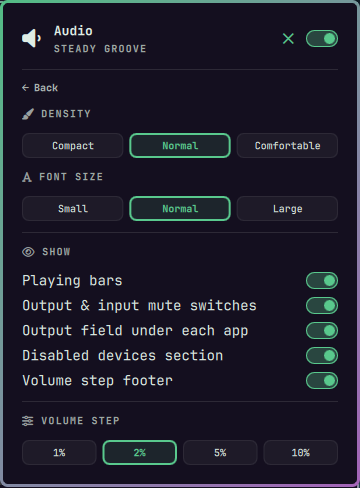
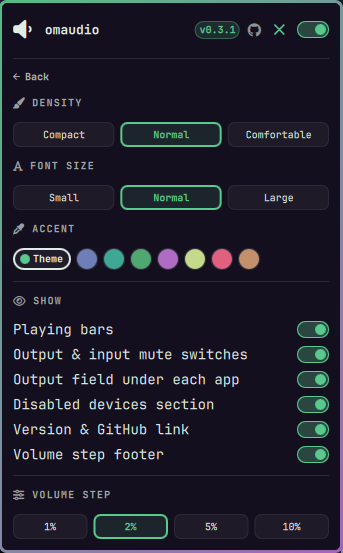
Retake the screenshots and preview for the new header, accent picker and padding

diff --git a/assets/preview.html b/assets/preview.html
@@ -31,7 +31,7 @@ li span{color:#9dbcb1}
   <li>Mute output, input <span>or any app</span></li>
   <li>Live playing bars <span>in your accent</span></li>
   <li>Browser tab titles <span>in the mixer</span></li>
-  <li>Density, font size <span>&amp; volume step</span></li>
+  <li>Density, font &amp; accent <span>from your theme</span></li>
  </ul>
 </div>
 <div class="right">

diff --git a/README.md b/README.md
@@ -3,7 +3,7 @@
 Omarchy's audio panel, with the controls it was missing. Drop-in replacement. Follows Omarchy themes.
 
 <p>
-  <img src="assets/omaudiopanel.png" alt="The omaudiopanel audio panel: playing bars and a mute switch on OUTPUT and INPUT, a Bluetooth speaker marked as such, Brave in the mixer with its output field and mute switch, the folded Disabled section and the volume step choices" width="360">
+  <img src="assets/omaudiopanel.png" alt="The omaudio panel with its version and GitHub link in the header: playing bars and a mute switch on OUTPUT and INPUT, a Bluetooth speaker marked as such, Brave in the mixer with its output field and mute switch, the folded Disabled section and the volume step choices" width="360">
   <img src="assets/omaudioroute.png" alt="The same panel with Brave's output picker open, the option to always play it on one output, and the power icon for disabling an output" width="360">
 </p>
 
@@ -44,7 +44,7 @@ pickers, the per-app mixer, keyboard navigation — and it adds:
   the version and GitHub link, the Disabled section or the
   volume step footer.
 
-  <img src="assets/omaudiosettings.png" alt="The settings view: density, font size, switches for each part of the panel and the volume step" width="300">
+  <img src="assets/omaudiosettings.png" alt="The settings view: density, font size, accent colour swatches from the theme's palette, switches for each part of the panel and the volume step" width="300">
 
 Changing the default output also leaves apps you routed or pinned where they
 are, instead of moving every stream to the new default.
